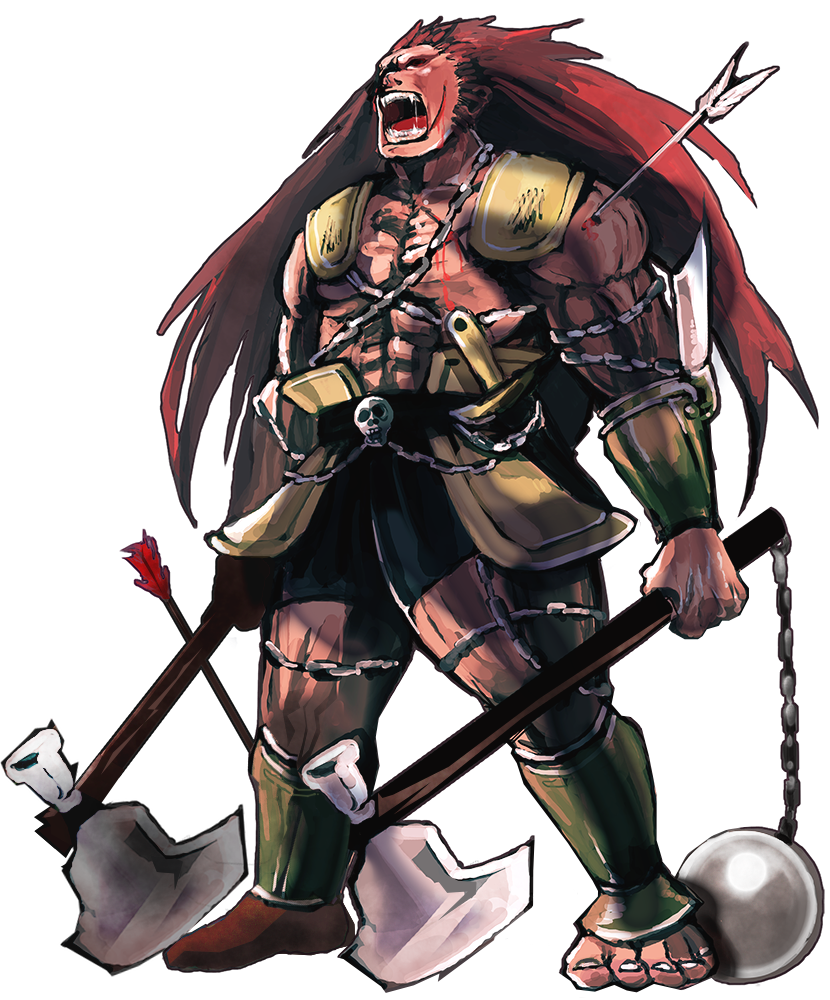
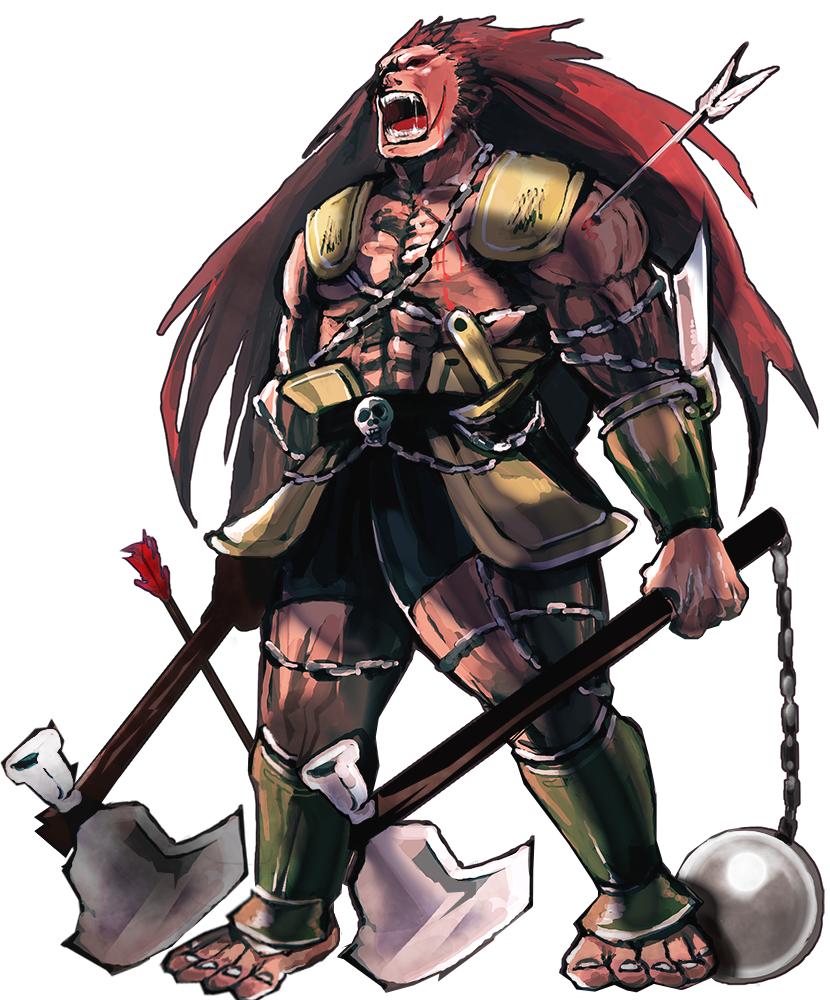
Editor panel additions, Card class rarity field/enum added, art tweak

Changed region(s): [[0.1807, 0.868, 0.4518, 1.0], [0.6928, 0.899, 0.8735, 0.992]]

diff --git a/game/Assets/Scripts/Editor/TCGEditorPanel.cs b/game/Assets/Scripts/Editor/TCGEditorPanel.cs
@@ -7,7 +7,41 @@ public class TCGEditorPanel : EditorWindow
 {
     private Texture mainTexture;
     private Texture backgroundTexture;
+    private GameObject summonPrefab;
+    private GameObject effectPrefab;
     private int boxSize = 80;
+    private int lineHeight = 20;
+    private int lineMargin = 5;
+
+    private enum CardType { Creature, Weapon, Structure, Spell }
+    private CardType selectedCardType;
+
+    private struct CardData
+    {
+        public string name;
+        public int cost;
+        public Card.RarityType rarity;
+        public string mainImagePath;            //doesn't need field
+        public string backgroundImagePath;      //doesn't need field
+        public string prefabPath;               //doesn't need field
+
+        //creature
+        public int attack;
+        public int health;
+        public string summonPrefabPath;
+        public string attackEffectPath;
+
+        //weapon
+        public int durability;
+        //to-do: special attributes?
+
+        //spell
+        public bool targeted;
+        public string spellEffectPath;
+        //to-do: effect id
+
+    }
+    private CardData data;
 
     private static Material spriteMat;
 
@@ -16,45 +50,122 @@ public class TCGEditorPanel : EditorWindow
     {
         // Get existing open window or if none, make a new one:
         TCGEditorPanel window = EditorWindow.GetWindow(typeof(TCGEditorPanel)) as TCGEditorPanel;
+        window.minSize = new Vector2(300, 700);
+        window.backgroundTexture = EditorGUIUtility.whiteTexture;
         window.Show();
     }
 
     void OnGUI()
     {
+        GUILayout.BeginVertical();
+
         GUILayout.Label("Card Creator", EditorStyles.boldLabel);
 
-        mainTexture = EditorGUI.ObjectField(new Rect(0, 20, boxSize, boxSize), mainTexture, typeof(Texture), false) as Texture;
-        backgroundTexture = EditorGUI.ObjectField(new Rect(boxSize, 20, boxSize, boxSize), backgroundTexture, typeof(Texture), false) as Texture;
+        CardArtworkSection();
+        CardDefaultSection();
+        CardByTypeSection();
+
+        //to-do: monster cards need attributes list
+
+        //to-do: validation that all fields are filled, saving using create new class, serialize to text file
+        //then move on to deletion and editing from editor...
+
+        if (GUI.Button(new Rect(5, position.height - 35, position.width - 10, 30), "Save/Export to Card List"))
+        {
+            this.mainTexture = null;
+            this.backgroundTexture = null;
+        }
+        GUILayout.EndVertical();
+    }
+
+    private void CardArtworkSection()
+    {
+        this.mainTexture = EditorGUI.ObjectField(new Rect(5, 20, boxSize, boxSize), this.mainTexture, typeof(Texture), false) as Texture;
+        this.backgroundTexture = EditorGUI.ObjectField(new Rect(5 + boxSize, 20, boxSize, boxSize), this.backgroundTexture, typeof(Texture), false) as Texture;
         spriteMat = new Material(Shader.Find("Sprites/Default"));
 
-
-        if (backgroundTexture)
+        if (this.mainTexture != null || this.backgroundTexture != null)
         {
-            EditorGUI.DrawPreviewTexture(new Rect(0, 120, 200, 200), backgroundTexture, spriteMat);
-
-            if (GUI.Button(new Rect(3, position.height - 25, position.width - 6, 20), "Clear texture"))
+            //background needs to be rendered first to be on bottom
+            if (this.backgroundTexture != null)
             {
-                backgroundTexture = EditorGUIUtility.whiteTexture;
+                EditorGUI.DrawPreviewTexture(new Rect(5, position.height - 340, 240, 300), this.backgroundTexture, spriteMat);
+            }
+            else
+            {
+                EditorGUI.DrawPreviewTexture(new Rect(5, position.height - 340, 240, 300), EditorGUIUtility.whiteTexture, spriteMat);
+            }
+            if (this.mainTexture != null)
+            {
+                EditorGUI.DrawPreviewTexture(new Rect(5, position.height - 340, 240, 300), this.mainTexture, spriteMat);
+            }
+
+            //clear button
+            if (GUI.Button(new Rect(boxSize * 2 + 10, lineHeight, 120, 20), "Clear textures"))
+            {
+                this.mainTexture = null;
+                this.backgroundTexture = EditorGUIUtility.whiteTexture;
             }
         }
         else
         {
             EditorGUI.PrefixLabel(new Rect(3, position.height - 25, position.width - 6, 20), 0, new GUIContent("No background texture found"));
         }
-        if (mainTexture)
+    }
+
+    private void CardDefaultSection()
+    {
+        //start card attributes
+        int enumSelectorYPos = 120;
+        this.selectedCardType = (CardType)EditorGUI.EnumPopup(new Rect(5, enumSelectorYPos, position.width - 10, 20), selectedCardType);
+
+        int standardDetailsYPos = 140;
+        EditorGUI.LabelField(new Rect(5, standardDetailsYPos, 40, lineHeight), "Name");
+        this.data.name = EditorGUI.TextField(new Rect(50, standardDetailsYPos, 120, lineHeight), this.data.name);
+
+        EditorGUI.LabelField(new Rect(5, standardDetailsYPos + lineHeight + lineMargin, 40, lineHeight), "Cost");
+        this.data.name = EditorGUI.TextField(new Rect(50, standardDetailsYPos + lineHeight + lineMargin, 120, lineHeight), this.data.name);
+
+        this.data.rarity = (Card.RarityType)EditorGUI.EnumPopup(new Rect(5, enumSelectorYPos + lineHeight * 3 + lineMargin * 2, position.width - 10, 20), this.data.rarity);
+    }
+
+    private void CardByTypeSection()
+    {
+        // === begin card specific fields ===
+        int cardSpecificXPos = 185;
+        int cardSpecificYPos = 140;
+        int belowRarity = 220;
+        switch (selectedCardType)
         {
-            EditorGUI.DrawPreviewTexture(new Rect(0, 120, 200, 200), mainTexture, spriteMat);
+            case CardType.Creature:
+                EditorGUI.LabelField(new Rect(cardSpecificXPos, cardSpecificYPos, 40, lineHeight), "Attack");
+                this.data.attack = EditorGUI.IntField(new Rect(cardSpecificXPos + 50, cardSpecificYPos, 50, lineHeight), this.data.attack);
 
-            if (GUI.Button(new Rect(3, position.height - 25, position.width - 6, 20), "Clear texture"))
-            {
-                mainTexture = EditorGUIUtility.whiteTexture;
-            }
+                EditorGUI.LabelField(new Rect(cardSpecificXPos, cardSpecificYPos + lineHeight + lineMargin, 40, lineHeight), "Health");
+                this.data.health = EditorGUI.IntField(new Rect(cardSpecificXPos + 50, cardSpecificYPos + lineHeight + lineMargin, 50, lineHeight), this.data.health);
+
+                //prefab preview logic
+                EditorGUI.LabelField(new Rect(5, belowRarity, position.width / 2 - 10, lineHeight), "Creature/Summon Prefab");
+                this.summonPrefab = EditorGUI.ObjectField(new Rect(5, belowRarity + lineHeight, position.width / 2 - 10, 16), this.summonPrefab, typeof(GameObject), false) as GameObject;
+
+                EditorGUI.LabelField(new Rect(position.width / 2, belowRarity, position.width / 2 - 10, lineHeight), "Attack Effect Prefab");
+                this.effectPrefab = EditorGUI.ObjectField(new Rect(position.width / 2, belowRarity + lineHeight, position.width / 2 - 10, 16), this.effectPrefab, typeof(GameObject), false) as GameObject;
+                EditorGUI.LabelField(new Rect(5, belowRarity + lineHeight * 2 + lineMargin, position.width - 10, lineHeight * 2), "Reminder: make sure the each prefab has appropriate\nsound effect attached with Play On Enable.");
+                break;
+            case CardType.Weapon:
+                EditorGUI.LabelField(new Rect(cardSpecificXPos, cardSpecificYPos, 50, lineHeight), "Durability");
+                this.data.attack = EditorGUI.IntField(new Rect(cardSpecificXPos + 50, cardSpecificYPos, 50, lineHeight), this.data.attack);
+                break;
+            case CardType.Structure:
+                //to-do: lots
+                break;
+            case CardType.Spell:
+                this.data.targeted = EditorGUI.ToggleLeft(new Rect(cardSpecificXPos, cardSpecificYPos, 80, 20), "Targeted?", this.data.targeted);
+
+                EditorGUI.LabelField(new Rect(5, belowRarity, position.width / 2 - 10, lineHeight), "Spell Effect Prefab");
+                this.effectPrefab = EditorGUI.ObjectField(new Rect(5, belowRarity + lineHeight, position.width - 10, 16), this.effectPrefab, typeof(GameObject), false) as GameObject;
+                EditorGUI.LabelField(new Rect(5, belowRarity + lineHeight * 2 + lineMargin, position.width - 10, lineHeight * 2), "Reminder: make sure the each prefab has appropriate\nsound effect attached with Play On Enable.");
+                break;
         }
-        else
-        {
-            EditorGUI.PrefixLabel(new Rect(3, position.height - 25, position.width - 6, 20), 0, new GUIContent("No main creature/character texture found"));
-        }
-
-
     }
 }

diff --git a/game/Assets/Scripts/Data Structures/Card.cs b/game/Assets/Scripts/Data Structures/Card.cs
@@ -35,6 +35,11 @@ public class Card
     protected string image;
     public string Image => image;
 
+    public enum RarityType { Common, Rare, Epic, Legendary }
+    [SerializeField]
+    protected RarityType rarity;
+    public RarityType Rarity => rarity;
+
     public CardObject wrapper;
 }
 
